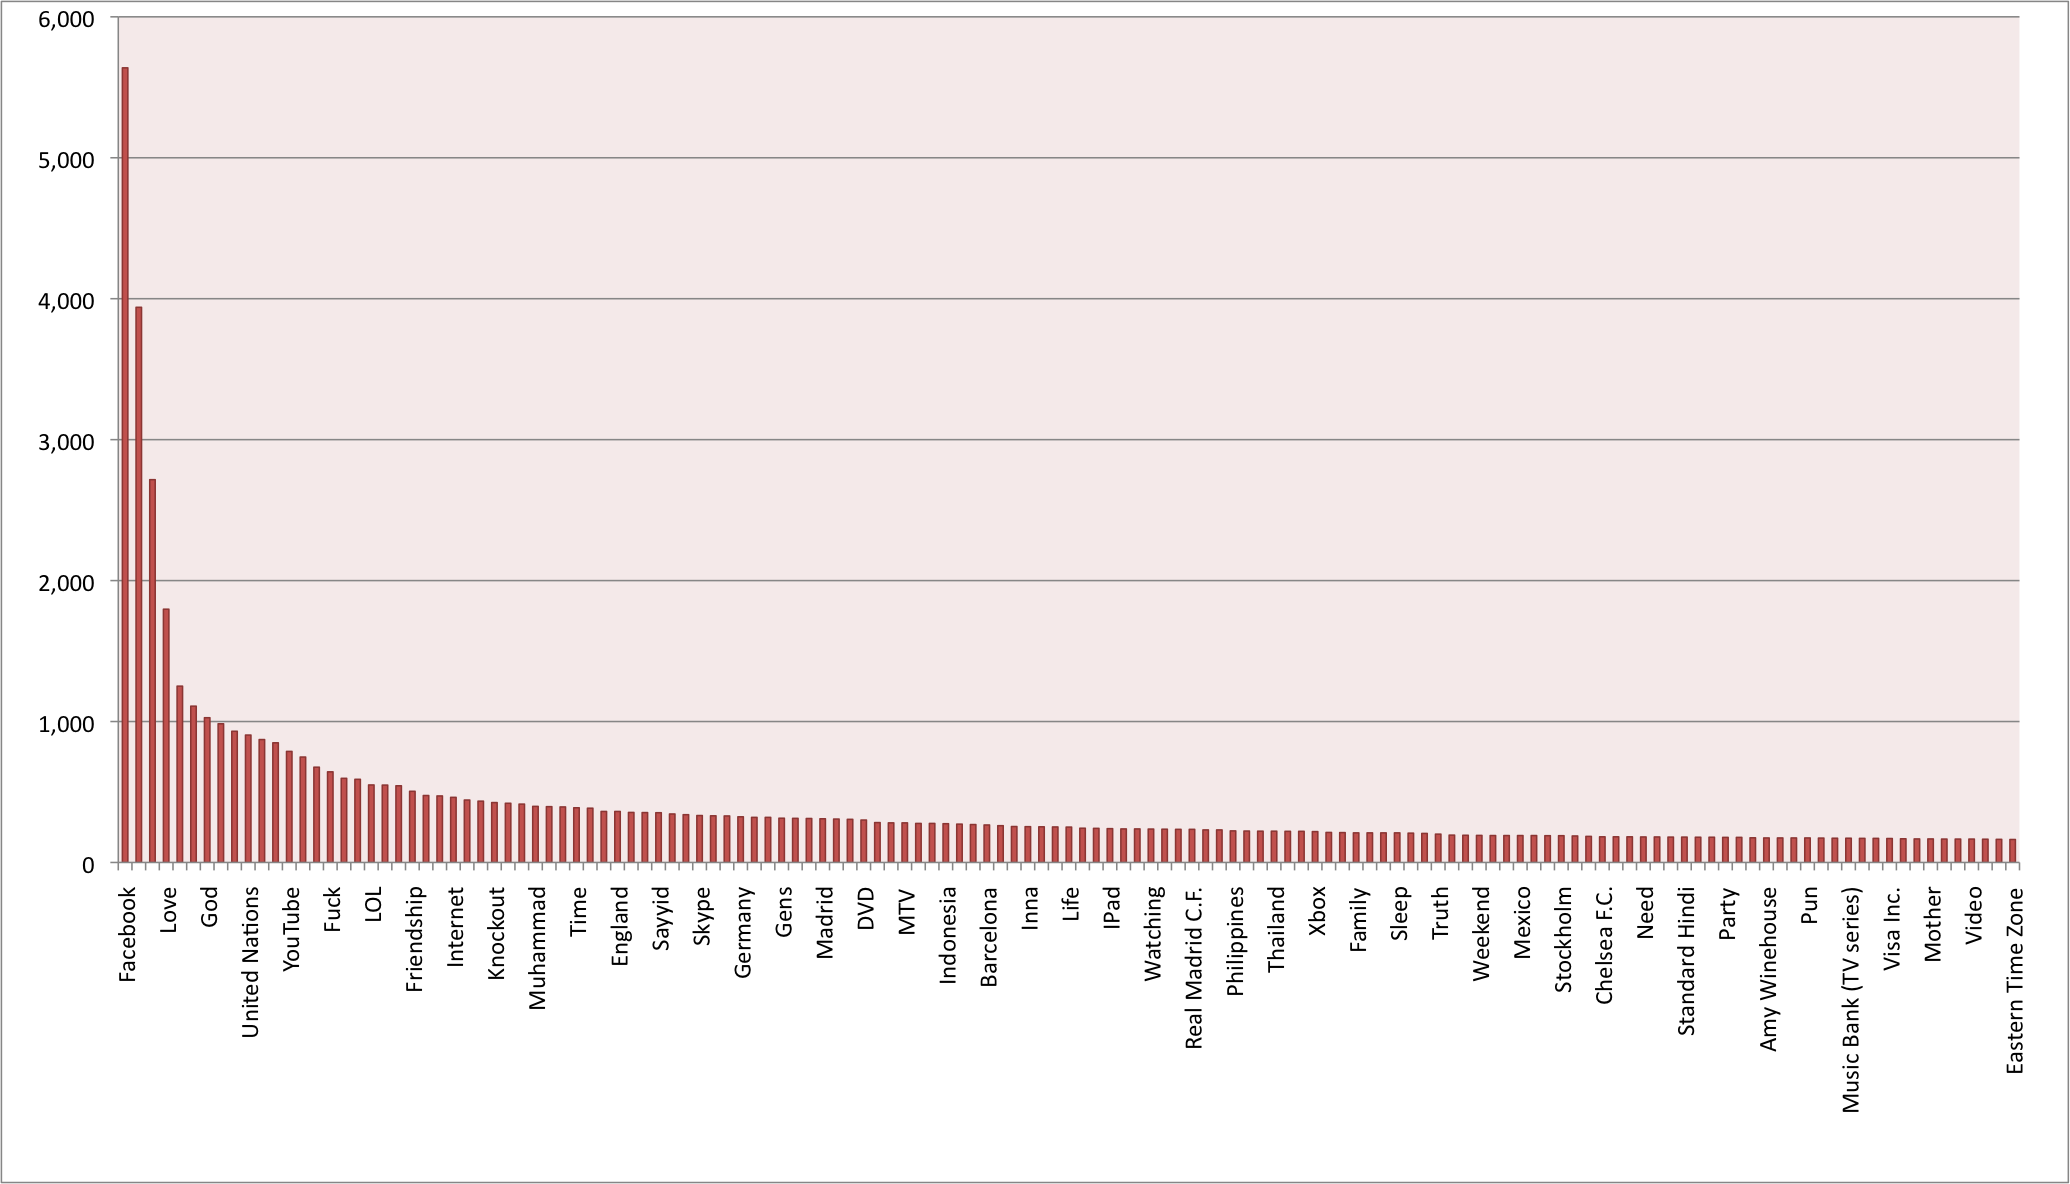
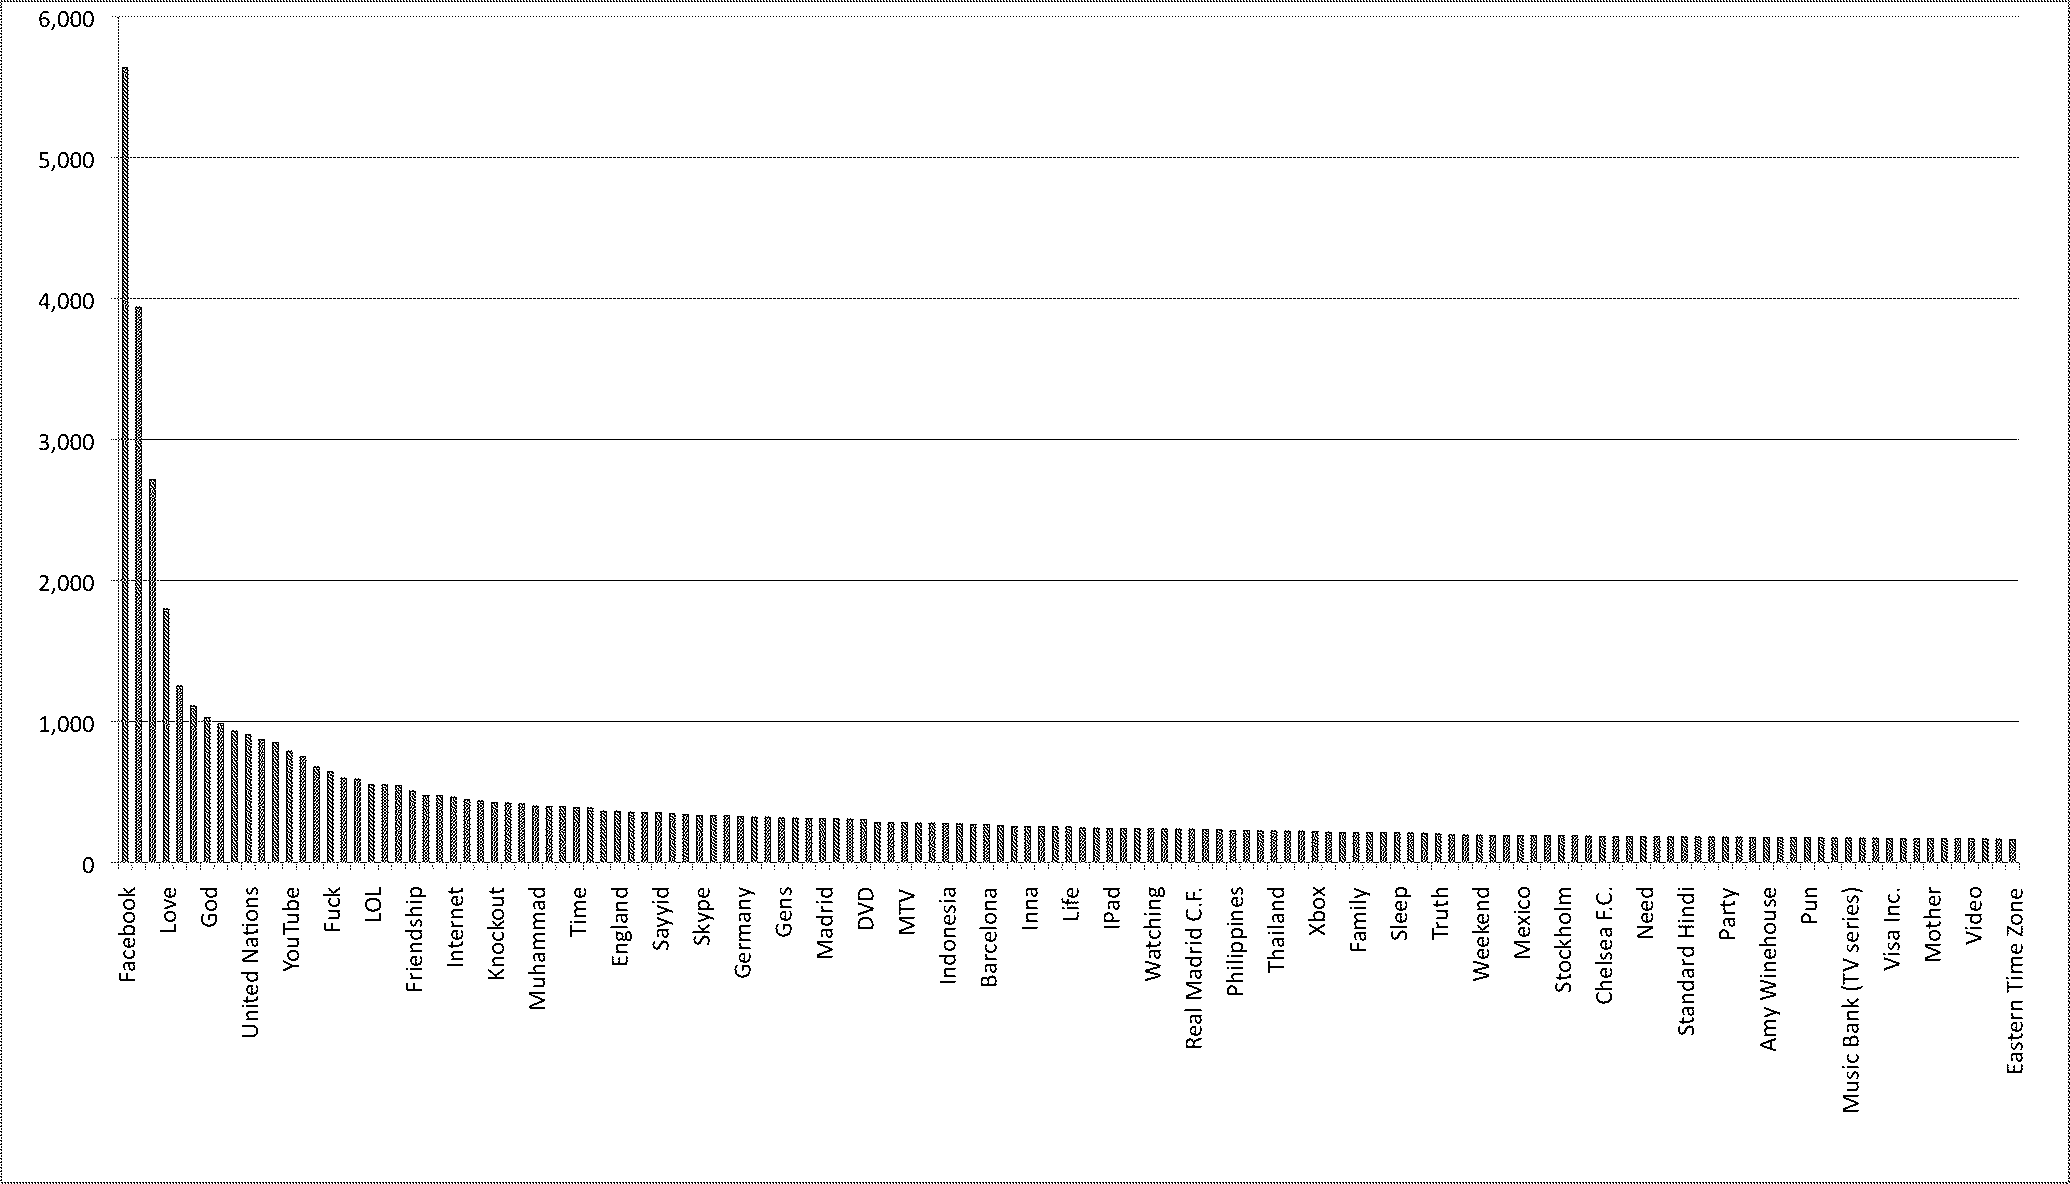
More Discussion. Black-white versions of charts. New top-10 entities charts.

Changed region(s): [[0.0309, 0.0, 1.0, 1.0], [0.0, 0.0, 0.9585, 0.0312], [0.0, 0.9688, 0.0309, 1.0]]

diff --git a/swj2012.tex b/swj2012.tex
@@ -385,6 +385,19 @@ If we put these figures in contrast to the \emph{seven~day~active users} statist
 \label{fig:topentities}
 \end{figure*}
 
+\begin{figure*}
+  \centering
+    \subfloat[][Twitter Swarm NLP]{
+      \includegraphics[width=0.45\textwidth]{./resources/twittertop10.png}
+      \label{fig:twittertop10}}
+    \qquad
+    \subfloat[][Facebook Swarm NLP]{
+      \includegraphics[width=0.45\textwidth]{./resources/facebooktop10.png}
+      \label{fig:facebooktop10}}
+\caption{Top-10 entities as reported by browser extension users (May~1 -- November~12).}
+\label{fig:top10}
+\end{figure*}
+
 \begin{table*}
   \centering
   \subfloat[][Twitter Swarm NLP]{
@@ -427,50 +440,87 @@ If we put these figures in contrast to the \emph{seven~day~active users} statist
 \end{table*}
 %\clearpage
 
-\section{Discussion}
+\section{Discussion and Future Work}
 In this Section, we delve into the collected data, which ranges over more than six months.
 We cover the period from May~1 to November~12, 2011.
 It is to be noted that our data is \emph{not} statistically significant, however, shows promising trends and potential direction for future research.
+If in the following we present results, those are to be taken with a grain of salt, however, common sense suggests that they are correct, also as the experiments were conducted over more than six months, which reduces the risk of short-term spikes.
 
 \subsection{Raw Statistics}
 First, we present some raw statistics on both social networking sites.
-\autoref{tab:raw} shows the total and unique number of extracted named entities from microposts.
-Interesting here is the relation of unique named entities and total named entities.
+\autoref{tab:raw} shows the absolute, total and unique number of occurrences of named entities from microposts.
+Interesting here is especially the relation between unique named entities and total named entities.
 To clarify the difference between unique and total named entities, we consider the following examples:
-(i) one user~A reads two different microposts that contain one common named entity~E (e.g., two consecutive Facebook posts that talk about cats).
+(i) one user~A during one social networking session reads two different microposts that contain one common named entity~E (e.g., two consecutive Facebook posts that talk about cats).
 In this case, we would track two total named entities, but only one unique named entity.
-In a second case (ii) if two users, user~A and user~B, read two different microposts that contain one common named entity, we would still track two total named entities, however, also two unique named entities.
-Short, a unique named entity is a named entity that during one visit to a social networking site of one user appears only once.
-Looking at the numbers, where we have 76.7\% unique named entities for Twitter and 43.0\% unique named entities for Facebook, we can carefully derive that the reading experience on Twitter is more versatile than on Facebook.
-We need to note that Facebook microposts happen a lot less frequently than Twitter microposts and that Twitter microposts are limited to 140 characters.
+In a second case (ii) if two users, user~A and user~B, during each one's social networking session read two different microposts that contain one common named entity~E, we would still track two total named entities, however, also two unique named entities.
+Short, a unique named entity is a named entity that during one social networking session of one user appears only once.
+The number of absolute named entities refers to the absolute distinct number of named entities that ever occurred during the experiments, independent from users and sessions.
+Looking at the numbers, where we have 76.7\% unique named entities for Twitter and 43.0\% unique named entities for Facebook, we can carefully derive that the reading experience per social networking session on Twitter is more versatile than on Facebook.
+We need to note, however, that Facebook microposts are generated at a lot lower frequency than Twitter microposts, and that Twitter microposts are limited to 140 characters, which may have an impact on both precision and recall of the named entity disambiguation process.
 The average duration of a visit on Facebook according to our statistics is 01:06:07 against 00:28:12 on Twitter, which implies that Twitter users spend less than half the time than Facebook users on their social networking site.
-Again, our data is at this point not statistically significant, especially as we have had the interesting phenomenon of having tracked almost more than ten times as many absolute Facebook users than Twitter users, however, seven~day~active user statistics do not fully back this difference (\autoref{sec:userdemographics}).
-Clearly further research is necessary that takes the following disruptive factors into account properly:
+Again, our data is at this point \emph{not} statistically significant, especially as we had the interesting phenomenon of almost more than ten times as many absolute distinct Facebook users than Twitter users, however, seven~day~active user statistics show only about double the number of Facebook users (see \autoref{sec:userdemographics}).
+Further research is necessary that takes the following disruptive factors into account:
 \begin{itemize}
 \item Micropost length and effect on recall and precision of named entity disambiguation.
-\item Throughput of microposts per hour and effect on versatility of named entities.
+\cite{nerd} by Rizzo \textit{et al.} provides first results in this direction.
+\item Throughput of microposts per time unit (smaller than one day) and effect on versatility of named entities per social networking session.
+This stands in an interesting contrast to the number of absolute distinct number of named entities, that is significantly higher on Facebook.
+\item Stability of the experiment participants over time.
+The key point of our approach was that participants were unaware that they were contributing to an experiment.
+We were surprised that so many Facebook users participated, albeit for a short period of time, whereas so few Twitter users participated, however, in the majority during the whole time.
 \end{itemize}
+
+\subsection{Ranking of Named Entities}
+The core outcome of our experiments is a comparison of the named entities on the social networking sites Facebook and Twitter.
+From the absolute distinct number of 18,207 (Twitter) and 54,331 (Facebook) of named entities, we have manually cleaned the list of the top-200 named entities on each social network, removed false positives, and normalized the representing URIs to DBpedia URIs.
+In \autoref{fig:topentities}, we present the remaining list of top entities for each social network.
+Visually, the curves are very similar with five named entities occurring many times, and then a long tail of many named entities occurring few times.
+\autoref{fig:top10} zooms in on just the top-10 entities.
+Interesting to note is the top named entity on each social network, which is the particular social network name ``Twitter'' and ``Facebook'' itself. 
+
+On Twitter, five out of the top-10 named entities are IT-related companies, namely ``Twitter'', ``Google'', ``Facebook'', ``Apple'', and ``Microsoft''.
+Two Apple products, the ``iPhone'' and the ``iPad'' mark the positions 7 and 8.
+``Search engine optimization'' (SEO) marks position 4, the ``United States'' of America are on 5, and position 10 is ``Allah''.
+Interpreting these results, we can say that 8 out of the top-10 named entities on Twitter by reader interest are of technical nature.
+
+On Facebook, the second most read about named entity is ``birthday'' on position 2.
+Position 3 is marked by ``Allah'', who is followed by the (Christian) ``God'' on position 7.
+``Love'' is on position 4.
+As the unique company ,``Twitter'' appears on position 6.
+The ``United States'' of America and ``North America'' are on positions 5 and 9 respectively.
+The ``disc jockey'' (DJ) spins a hit single on position 8.
+Finally, the political organization ``United Nations'' marks position 10.
+If we interpret these results, Facebook is used most for personal matters like reading (social network) friends' birthday felicitations, reading about love, but also religious matters of Islamic and Christian nature.
+Music plays a significant role on Facebook, reflected by the presence of disc jockey.
+With regards to reader interest, there is a tendency towards reading about the United States, or North America in general.
+
+\subsection{Segmentation by RDF Type}
+
+
+\subsection{Events from recent History}
+
 
 \begin{table*}
   \centering
   \subfloat[][Twitter]{
-    \begin{tabular}{ | l | l | l | l |}
+    \begin{tabular}{ | l | l | l | l | l |}
     \hline
-	\textbf{Total} & \textbf{Unique} & \textbf{Unique / Total (\%)} & \textbf{Avg. Visit Length} \\ \hline
-	35,958 & 27,594 & 76.7\% & 00:28:12 \\
+	\textbf{Absolute} & \textbf{Total} & \textbf{Unique} & \textbf{Unique / Total (\%)} & \textbf{Avg. Visit Length} \\ \hline
+	18,207 & 35,958 & 27,594 & 76.7\% & 00:28:12 \\
     \hline
   \end{tabular}
   \label{tab:twitterraw}}
   \qquad
   \subfloat[][Facebook]{
-    \begin{tabular}{ | l | l | l | l |}
+    \begin{tabular}{| l | l | l | l | l |}
     \hline
-	\textbf{Total} & \textbf{Unique} & \textbf{Unique / Total (\%)} & \textbf{Avg. Visit Length} \\ \hline
-	316,910 	& 136,196 & 43.0\% & 01:06:07 \\ 
+	\textbf{Absolute} & \textbf{Total} & \textbf{Unique} & \textbf{Unique / Total (\%)} & \textbf{Avg. Visit Length} \\ \hline
+	54,331 & 316,910 	& 136,196 & 43.0\% & 01:06:07 \\ 
     \hline
   \end{tabular}
   \label{tab:facebookraw}}
-  \caption{Raw statistics of total and unique extracted named entities (May~1 -- November~12).}
+  \caption{Raw statistics on absolute, total and unique number of occurrences of named entities (May~1 -- November~12).}
   \label{tab:raw}
 \end{table*}
 
